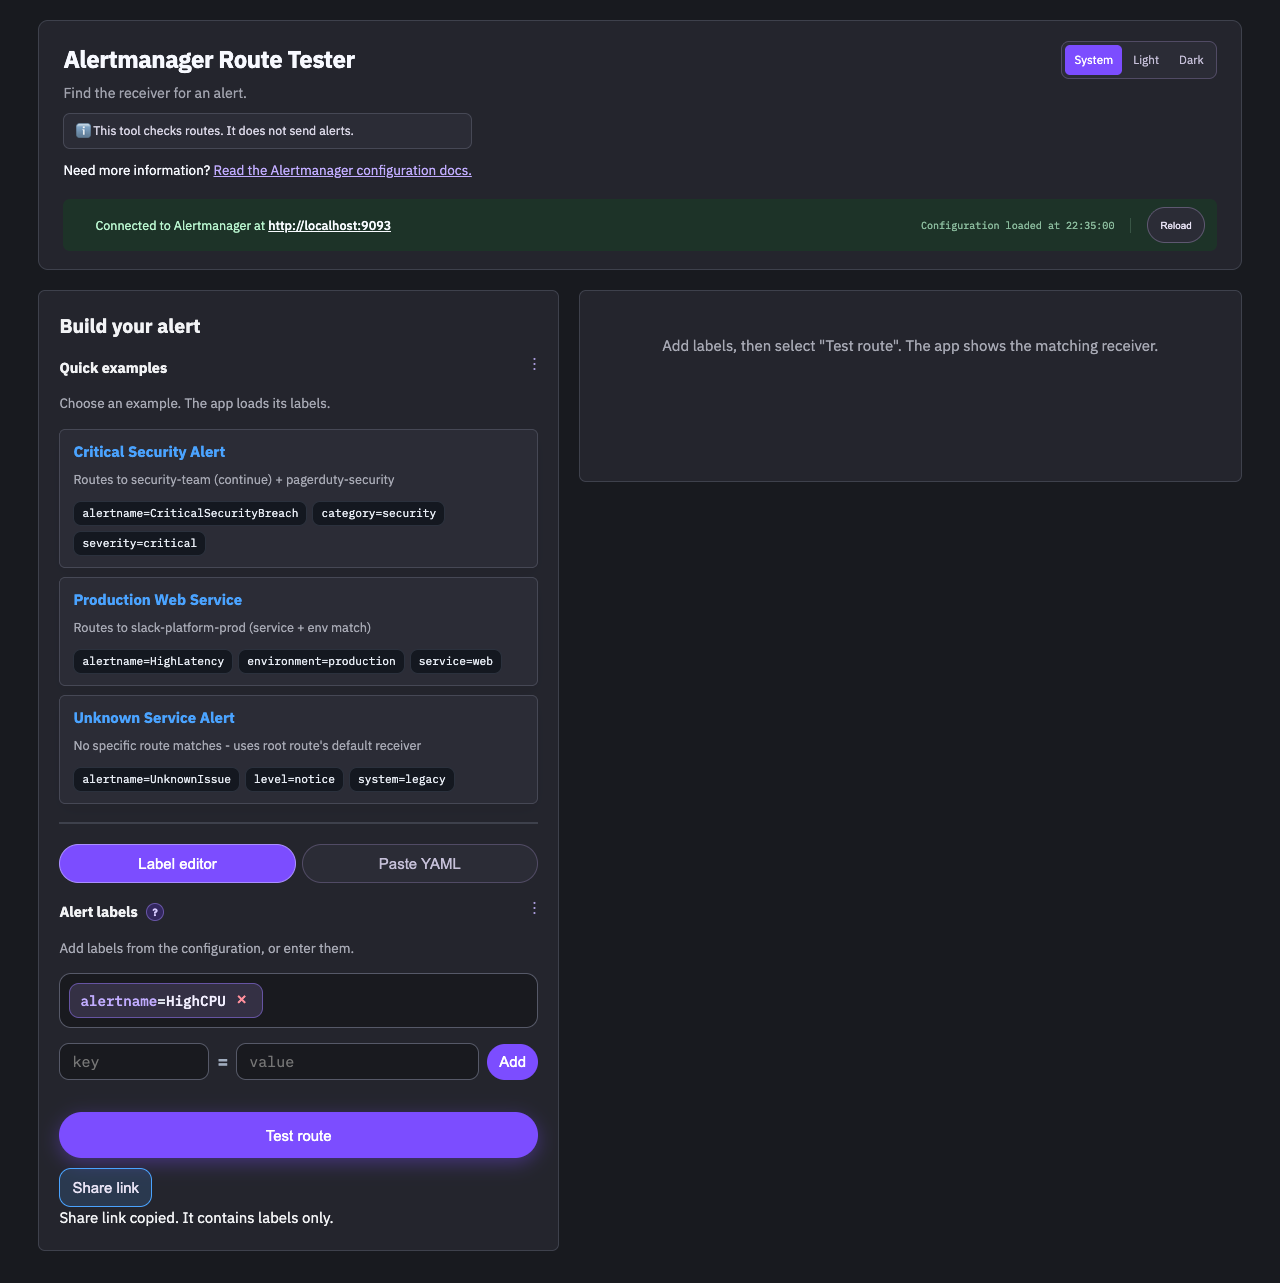
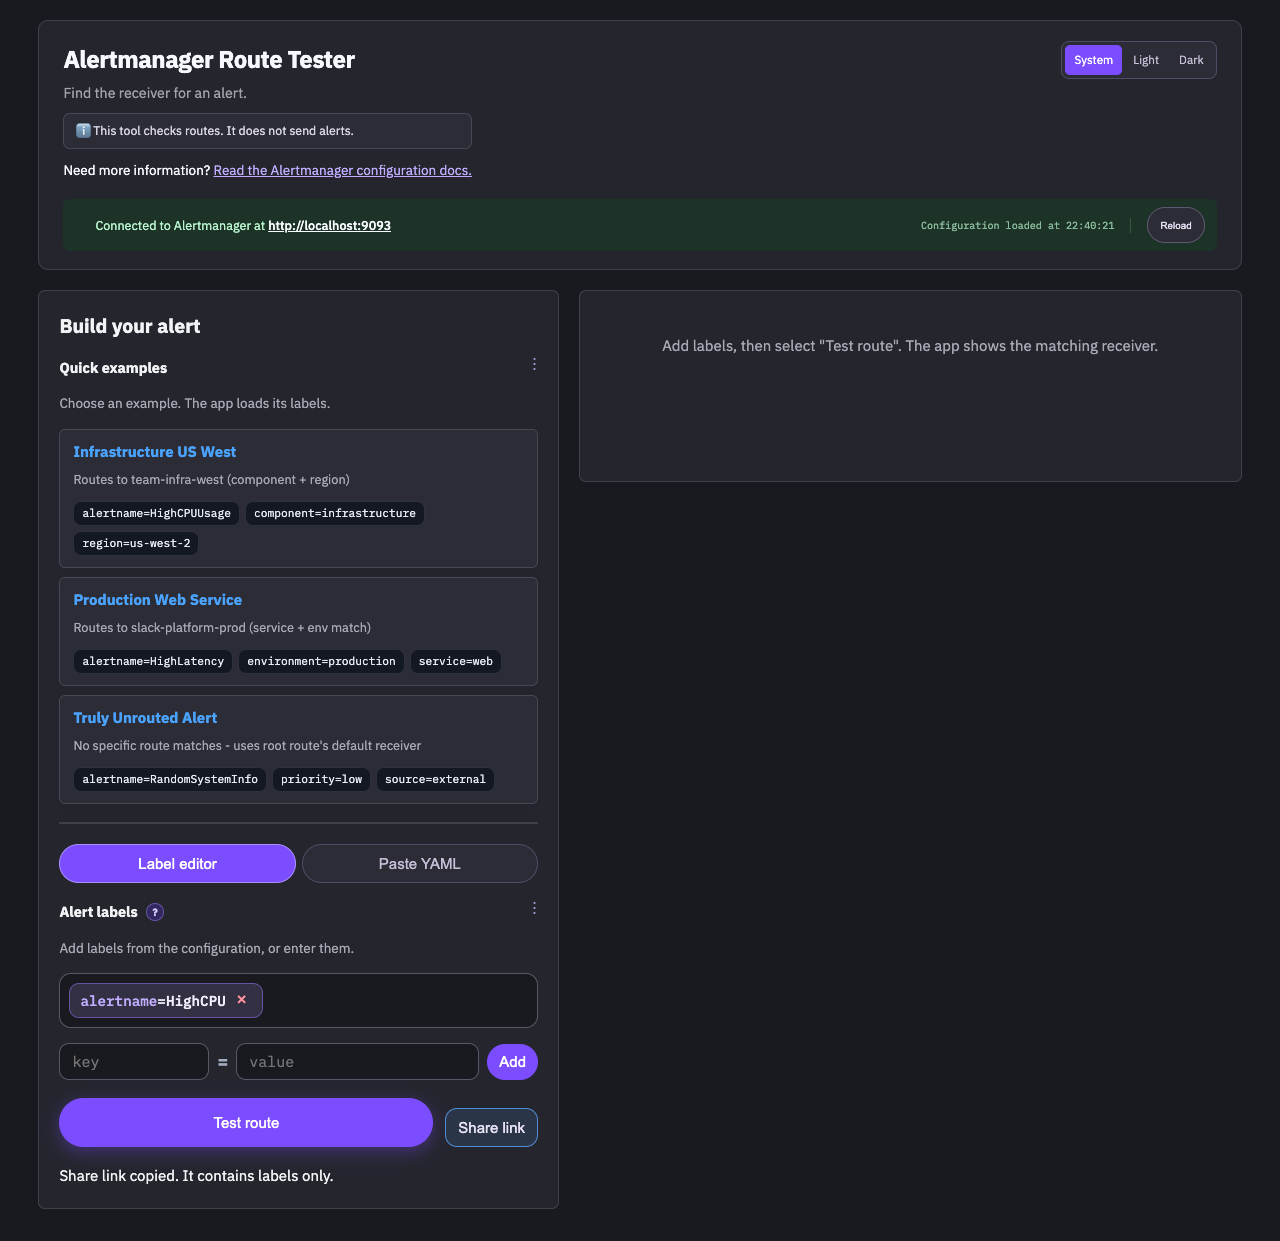
fix(ui): add spacing around share actions

diff --git a/static/style.css b/static/style.css
@@ -1529,12 +1529,18 @@ body {
 }
 
 .form-actions .btn-test-route {
+    width: auto;
     flex: 1;
     margin-top: 0;
 }
 
+.form-actions .btn-secondary {
+    flex: 0 0 auto;
+}
+
 .field-status {
-    margin: 12px 0 0;
+    margin: 18px 0 0;
+    min-height: 1.4em;
 }
 
 .btn-test-route {
